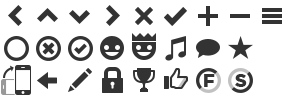
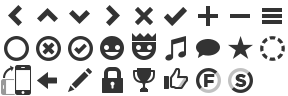
clearer availability iconography

Changed region(s): [[0.875, 0.375, 1.0, 0.6562]]

diff --git a/app/assets/stylesheets/variables.css.less b/app/assets/stylesheets/variables.css.less
@@ -47,6 +47,7 @@ i.icon-mc            { background-position: -128px -32px; }
 i.icon-muso          { background-position: -160px -32px; }
 i.icon-notes         { background-position: -192px -32px; }
 i.icon-guest         { background-position: -224px -32px; }
+i.icon-inactive      { background-position: -256px -32px; }
 i.icon-orientation   { background-position:    0px -64px; }
 i.icon-back          { background-position:  -32px -64px; }
 i.icon-edit          { background-position:  -64px -64px; }

diff --git a/app/assets/stylesheets/availability.css.less b/app/assets/stylesheets/availability.css.less
@@ -1,4 +1,18 @@
-.weekend {
+.weekend.page {
+  header {
+    button {
+      width: auto;
+      padding: 0 8px;
+      font-size: 20px;
+      font-weight: normal;
+      color: @BLACK;
+
+      &.active {
+        color: white;
+      }
+    }
+  }
+
   .content {
     position: absolute;
     top: 48px;
